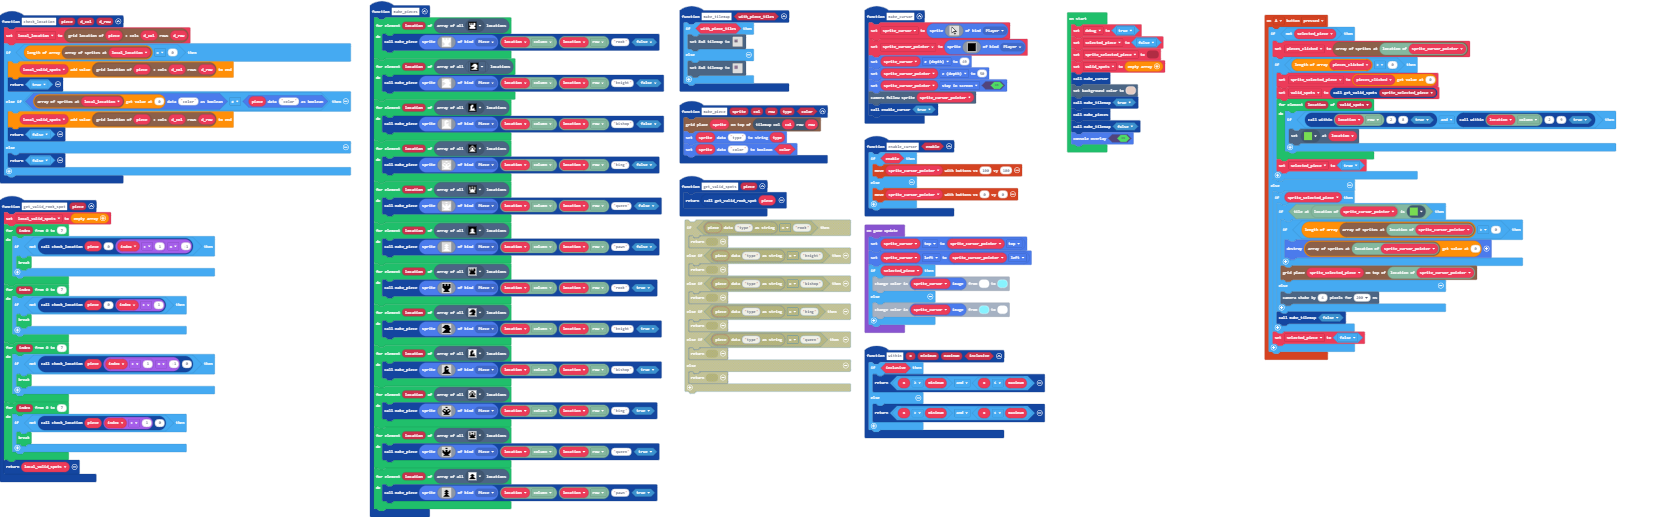
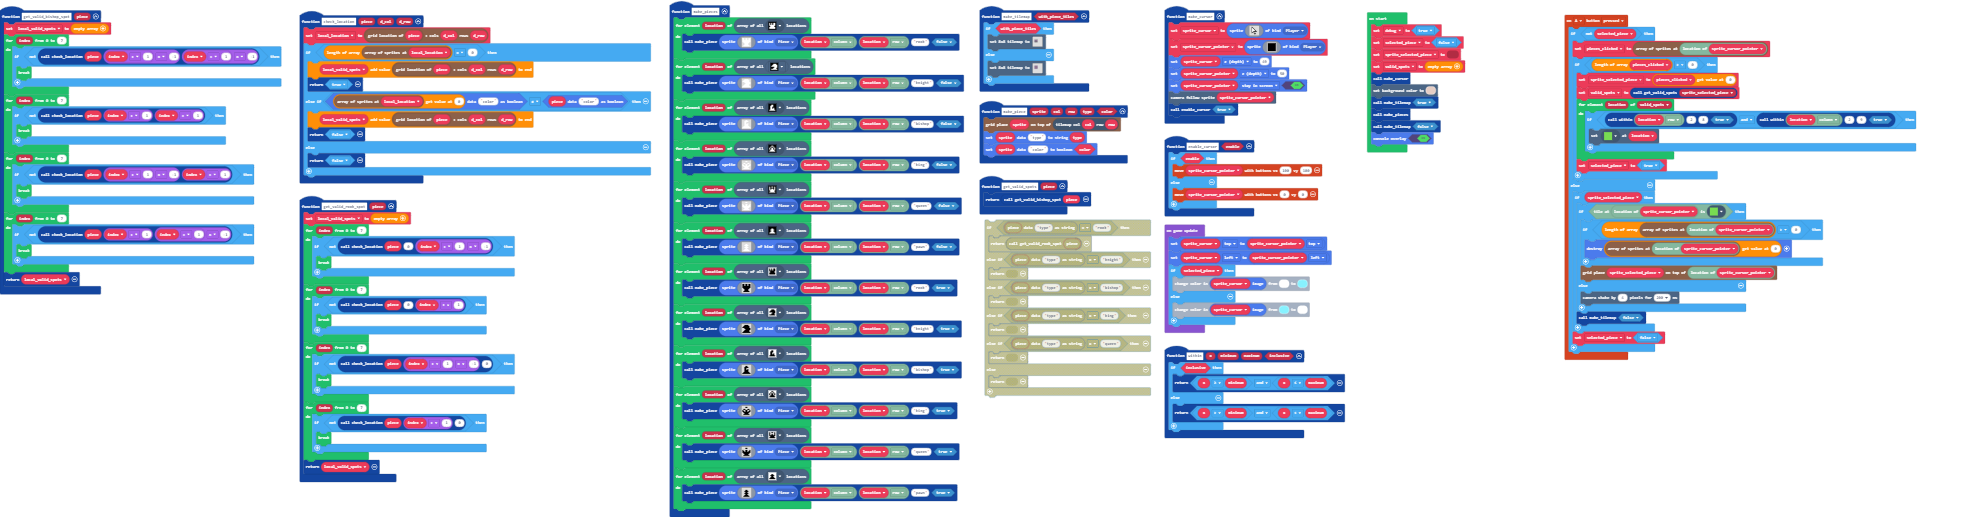
Make bishop rules work

diff --git a/main.ts b/main.ts
@@ -13,8 +13,32 @@ function check_location (piece: Sprite, d_col: number, d_row: number) {
         return false
     }
 }
+function get_valid_bishop_spot (piece: Sprite) {
+    local_valid_spots = []
+    for (let index = 0; index <= 7; index++) {
+        if (!(check_location(piece, (index + 1) * -1, (index + 1) * -1))) {
+            break;
+        }
+    }
+    for (let index = 0; index <= 7; index++) {
+        if (!(check_location(piece, index + 1, index + 1))) {
+            break;
+        }
+    }
+    for (let index = 0; index <= 7; index++) {
+        if (!(check_location(piece, (index + 1) * -1, index + 1))) {
+            break;
+        }
+    }
+    for (let index = 0; index <= 7; index++) {
+        if (!(check_location(piece, index + 1, (index + 1) * -1))) {
+            break;
+        }
+    }
+    return local_valid_spots
+}
 function get_valid_spots (piece: Sprite) {
-    return get_valid_rook_spot(piece)
+    return get_valid_bishop_spot(piece)
 }
 function make_pieces () {
     for (let location of tiles.getTilesByType(assets.tile`white_rook_tile`)) {
